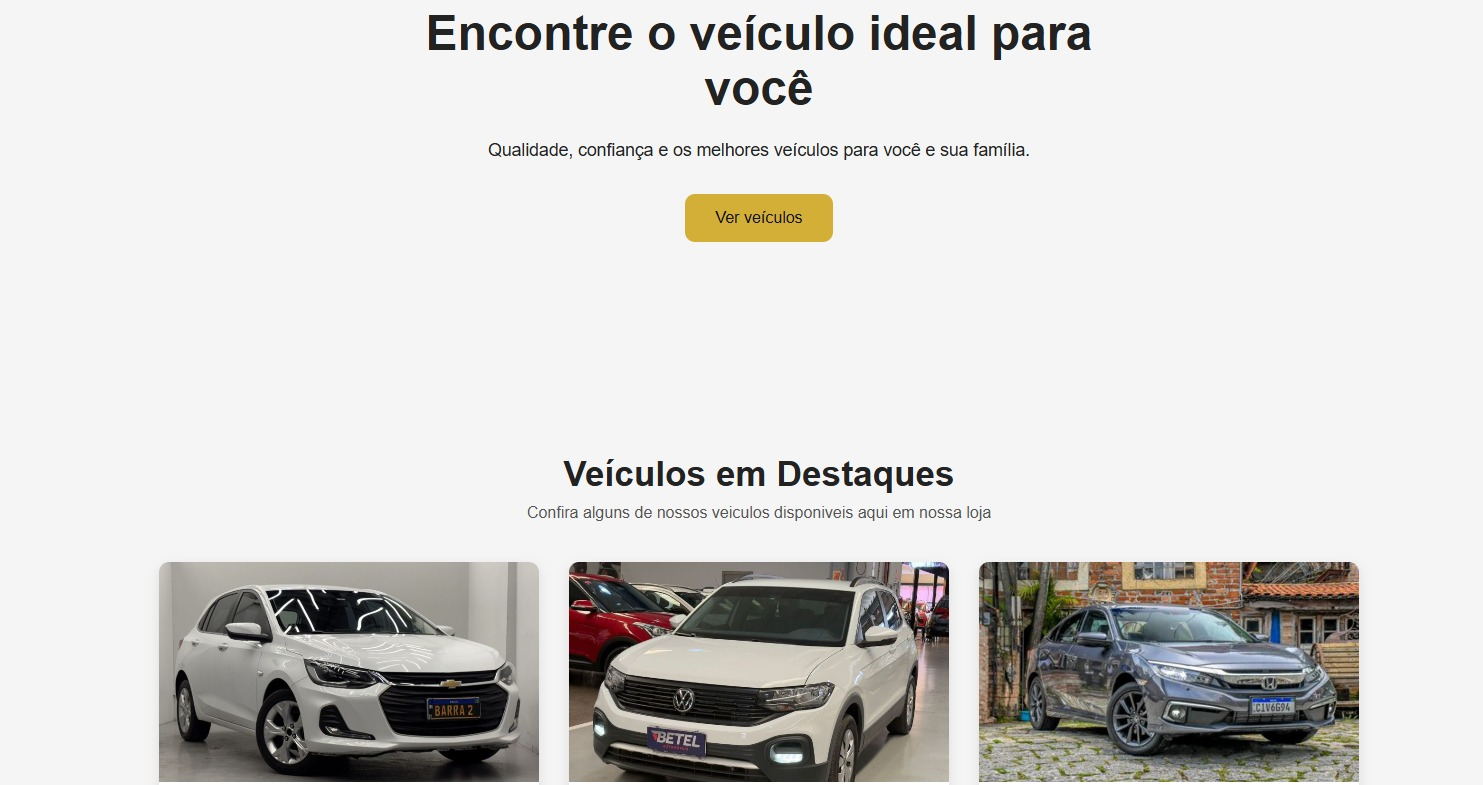
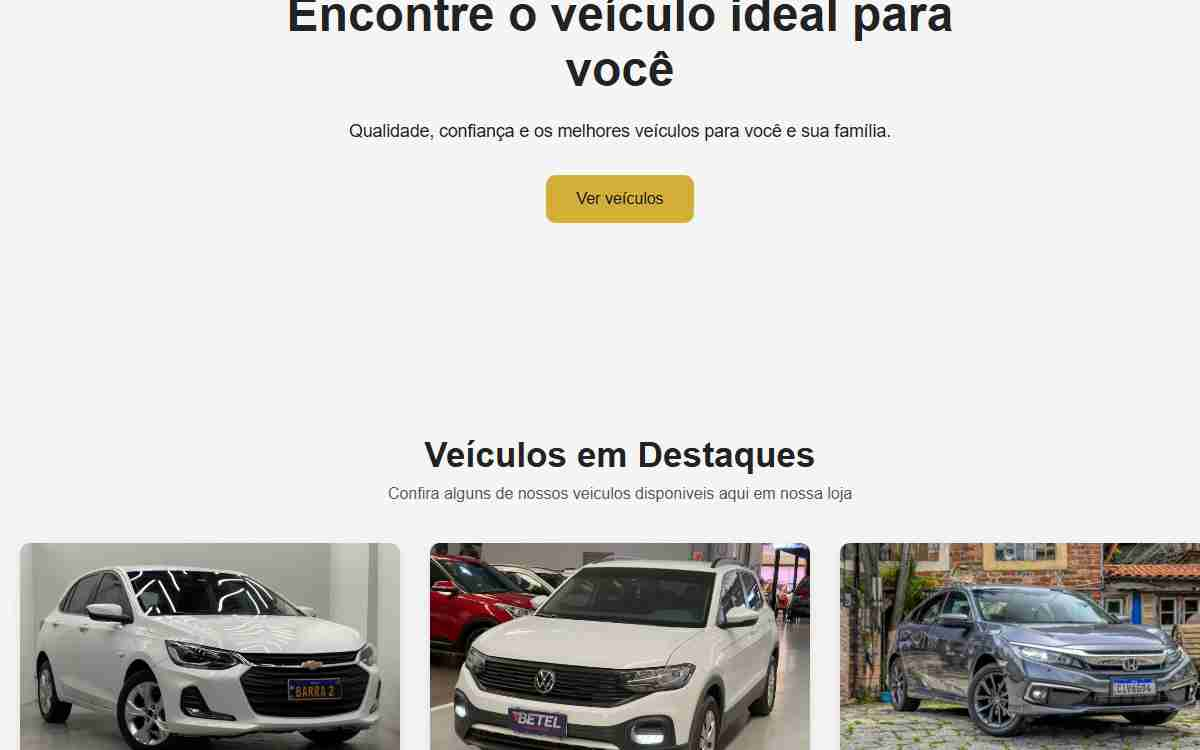
alterações

Changed region(s): [[0.0, 0.7053, 1.0, 1.0], [0.2158, 0.0, 0.8017, 0.3067], [0.3083, 0.5827, 0.7092, 0.6747]]

diff --git a/Projetos.html b/Projetos.html
@@ -41,6 +41,42 @@
                     <a href="https://github.com/danielsales-cmd/Auto-Prime" target="_blank">GitHub</a>
                 </div>
             </article>
+
+            <article class="card-projetos">
+
+                <div class="imagem-projeto">
+
+                    <img src="imagens/imagem sabor e brasa.jpeg" alt="Preview do projeto sabor & brasa">
+
+                </div>
+
+                <div class="conteudo-projeto">
+                    <h2>
+                        Sabor & Brasa
+                    </h2>
+
+                    <p class="descricao">
+                        Projeto desenvolvido para praticar e aprimorar conhecimentos em desenvolvimento web, criando uma landing page para um restaurante fictício.
+
+                        O projeto foi construído com HTML5 e CSS3, trabalhando conceitos de estrutura semântica, organização de estilos, variáveis CSS, Flexbox, efeitos de interação e adaptação visual. A página apresenta seções de início, cardápio, sobre o restaurante e contato, com foco em uma interface moderna e agradável.
+
+                        O projeto também faz parte da minha prática de desenvolvimento de interfaces para web e será aprimorado com JavaScript e responsividade.
+                    </p>
+
+                    <div class="tecnologias">
+                    <span>HTML 5</span>
+                    <span>CSS 3</span>
+                    <span>JavaScript</span>
+                    </div>
+
+                    <div class="botoes">
+                        <a href="https://danielsales-cmd.github.io/lange-page/" target="_blank">Ver projetos</a>
+                        <a href="https://github.com/danielsales-cmd/lange-page" target="_blank">GitHub</a>
+                    </div>
+
+                </div>
+
+            </article>
         </section>
     </main>
     <footer>&copy; 2026 Auto Prime. Todos os direitos reservados por Daniel.</footer>

diff --git a/Projetos.css b/Projetos.css
@@ -18,11 +18,12 @@
 }
 
 .projetos{
-    display: flex;
-    justify-content: center;
+    display: grid;
+    grid-template-columns: repeat(2, 1fr);
+    gap: 30px;
 }
 
-.card-projeto{
+.card-projetos{
     width: 100%;
     background-color: var(--cor-fundo-card);
     border-radius: 15px;
@@ -31,14 +32,14 @@
     transition: 0.3s;
 }
 
-.card-projeto:hover{
+.card-projetos:hover{
     transform: translateY(-5px);
     box-shadow: 0 15px 30px rgba(0,0,0,.25);
 }
 
 .imagem-projeto{
     width: 100%;
-    height: 500px;
+    height: 300px;
     overflow: hidden;
 }
 
@@ -50,42 +51,47 @@
     transition: 0.3s;
 }
 
-.card-projeto:hover, .imagem-projeto img{
+.card-projetos:hover .imagem-projeto img{
     transform: scale(1.03);
 }
 
 .conteudo-projeto{
-    padding: 30px;
+    padding: 25px;
 }
 
 .conteudo-projeto h2{
     color: var(--cor-principal);
-    font-size: 2rem;
+    font-size: 1.8rem;
     margin-bottom: 15px;
 }
 
 .descricao{
     color: var(--cor-texto-secundario);
     margin-bottom: 25px;
+    line-height: 1.6;
 }
 
 .tecnologias{
     display: flex;
+    justify-content: center;
     flex-wrap: wrap;
     gap: 10px;
+    min-height: 35px;
     margin-bottom: 25px;
 }
 
 .tecnologias span{
     background-color: var(--cor-principal);
     color: var(--cor-texto-claro);
-   padding: 6px 12px;
-   border-radius: 20px;
-   font-size: 0.9em; 
+    padding: 5px 12px;
+    border-radius: 20px;
+    font-size: 0.85em;
+    font-weight: bold; 
 }
 
 .botoes{
     display: flex;
+    justify-content: center;
     gap: 15px;
     flex-wrap: wrap;
 }
@@ -93,10 +99,11 @@
 .botoes a{
     display: inline-block;
     background-color: var(--cor-principal);
-    color: var(--cor-fundo-card);
-    padding: 12px 20px;
-    border-radius: 10px;
+    color: var(--cor-texto-claro);
+    padding: 10px 18px;
+    border-radius: 8px;
     text-decoration: none;
+    font-weight: bold;
     transition: 0.3s;
 }
 
